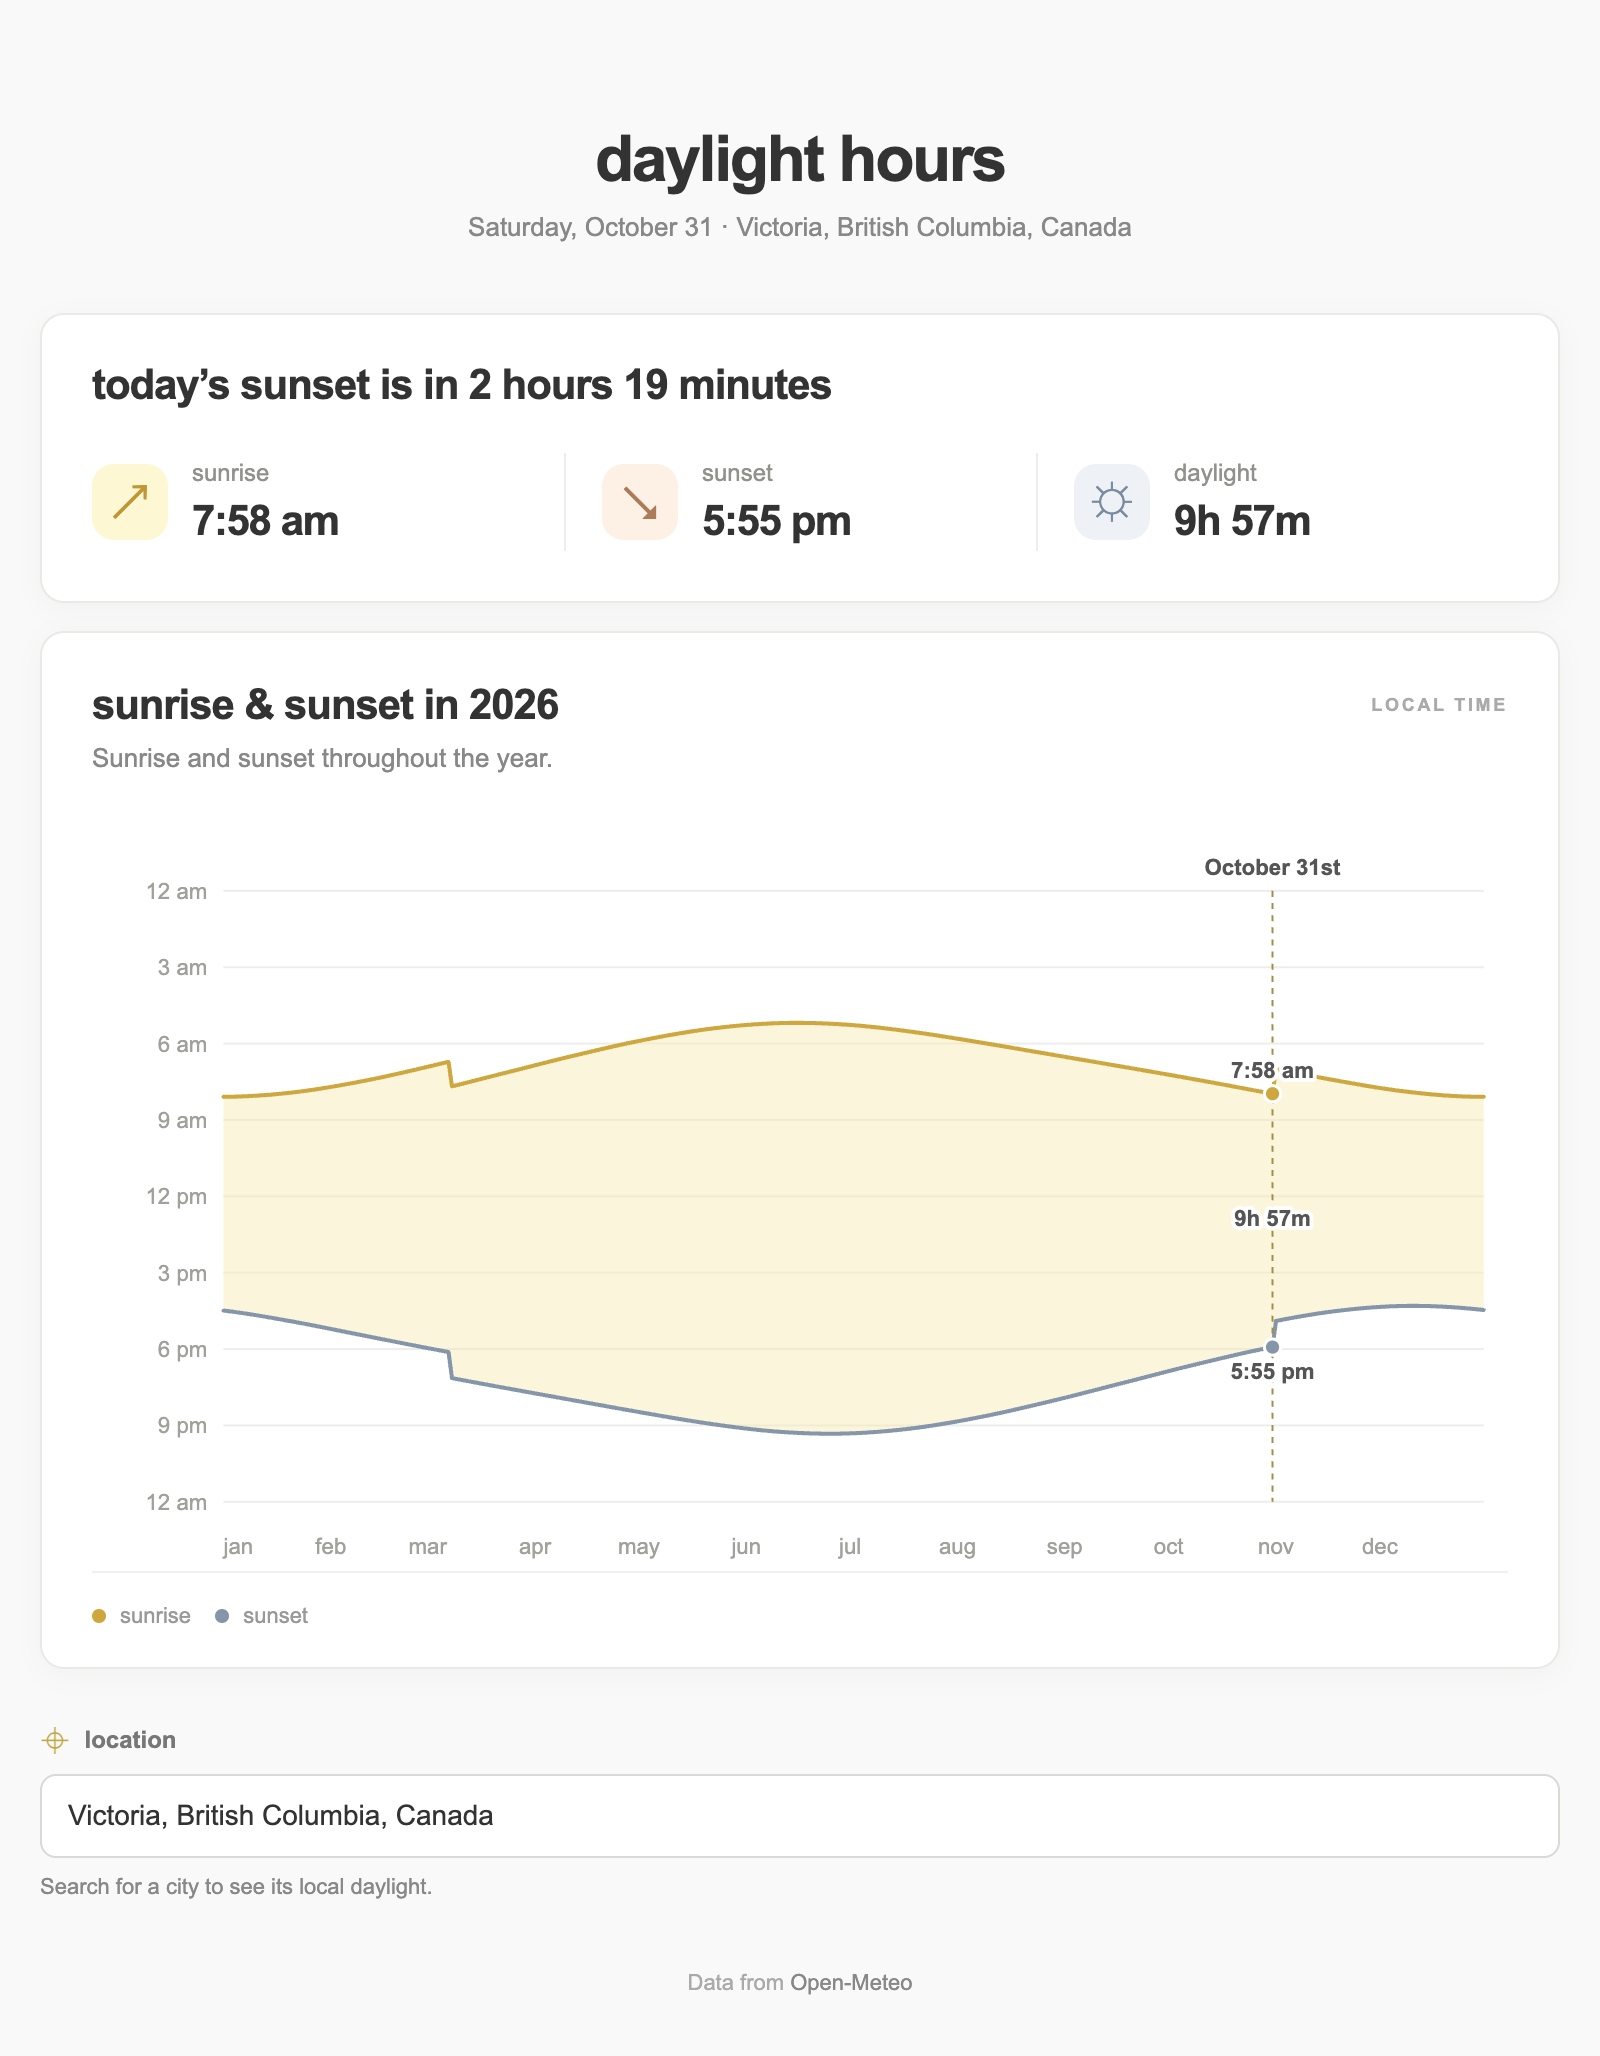
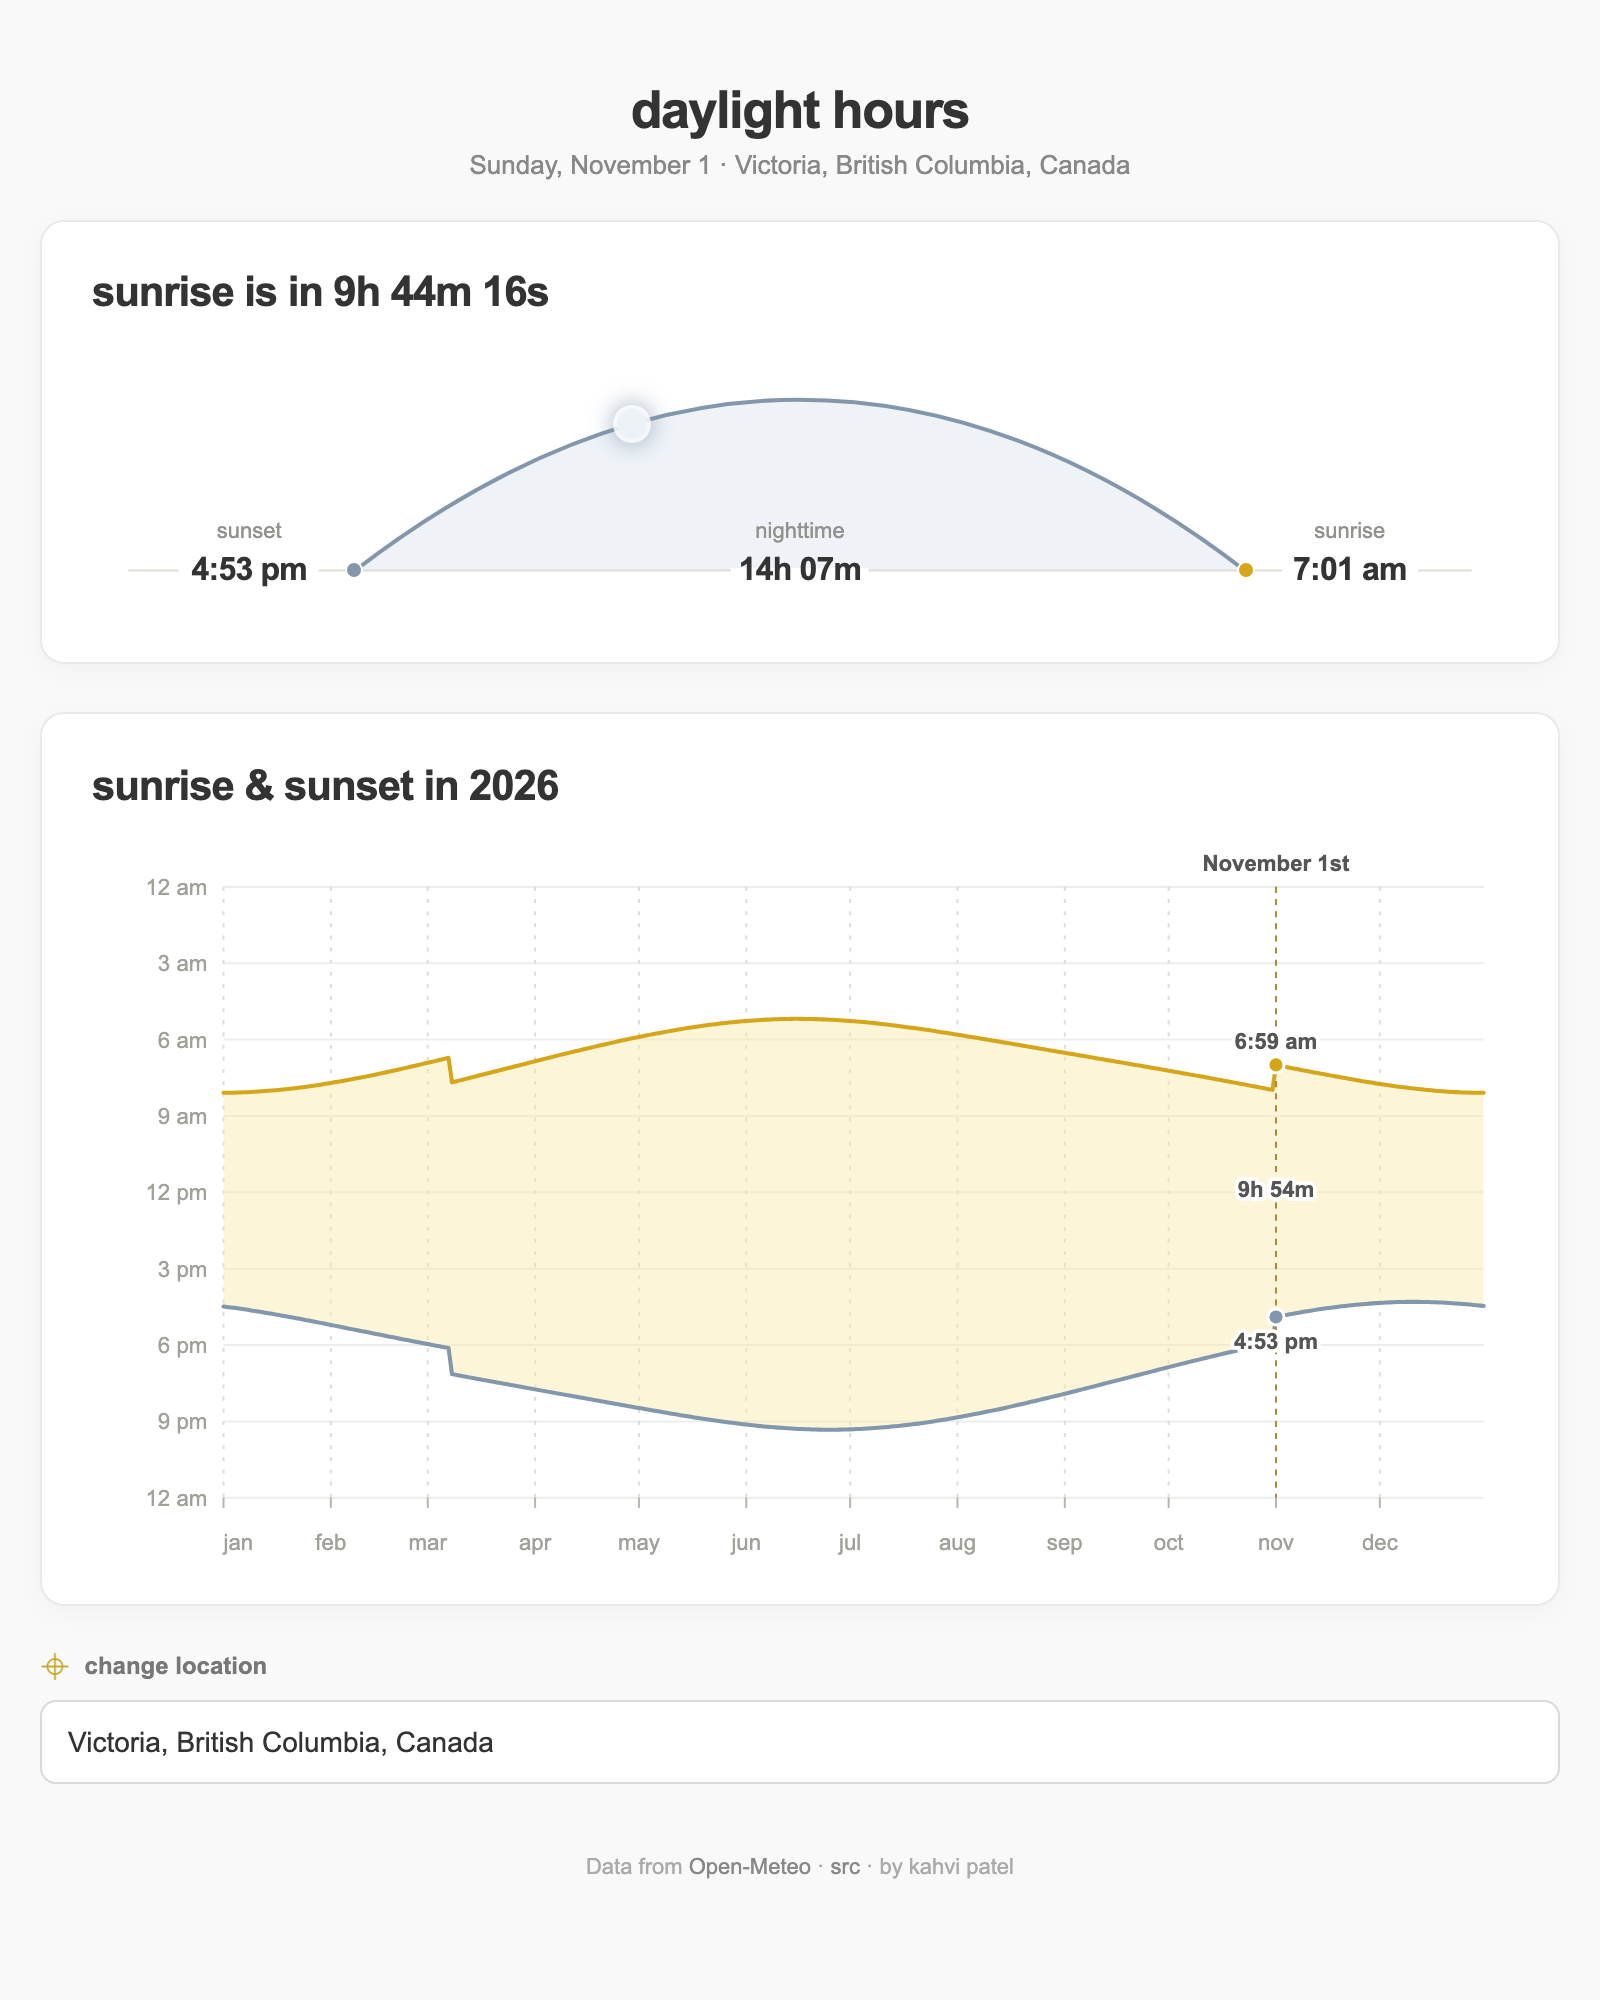
Add link preview and refresh README screenshot

diff --git a/index.html b/index.html
@@ -5,6 +5,14 @@
   <meta name="viewport" content="width=device-width, initial-scale=1">
   <meta name="theme-color" content="#f9f9f9">
   <title>daylight hours</title>
+  <meta property="og:type" content="website">
+  <meta property="og:title" content="Daylight hours">
+  <meta property="og:image" content="https://daylight.kahvipatel.com/preview.png">
+  <meta property="og:image:type" content="image/png">
+  <meta property="og:image:width" content="1200">
+  <meta property="og:image:height" content="630">
+  <meta property="og:image:alt" content="Daylight hours: illustrates when the sun up where you live.">
+  <meta name="twitter:card" content="summary_large_image">
   <link rel="icon" href="favicon.svg" type="image/svg+xml">
   <link rel="stylesheet" href="styles.css">
   <script src="app.js" defer></script>
